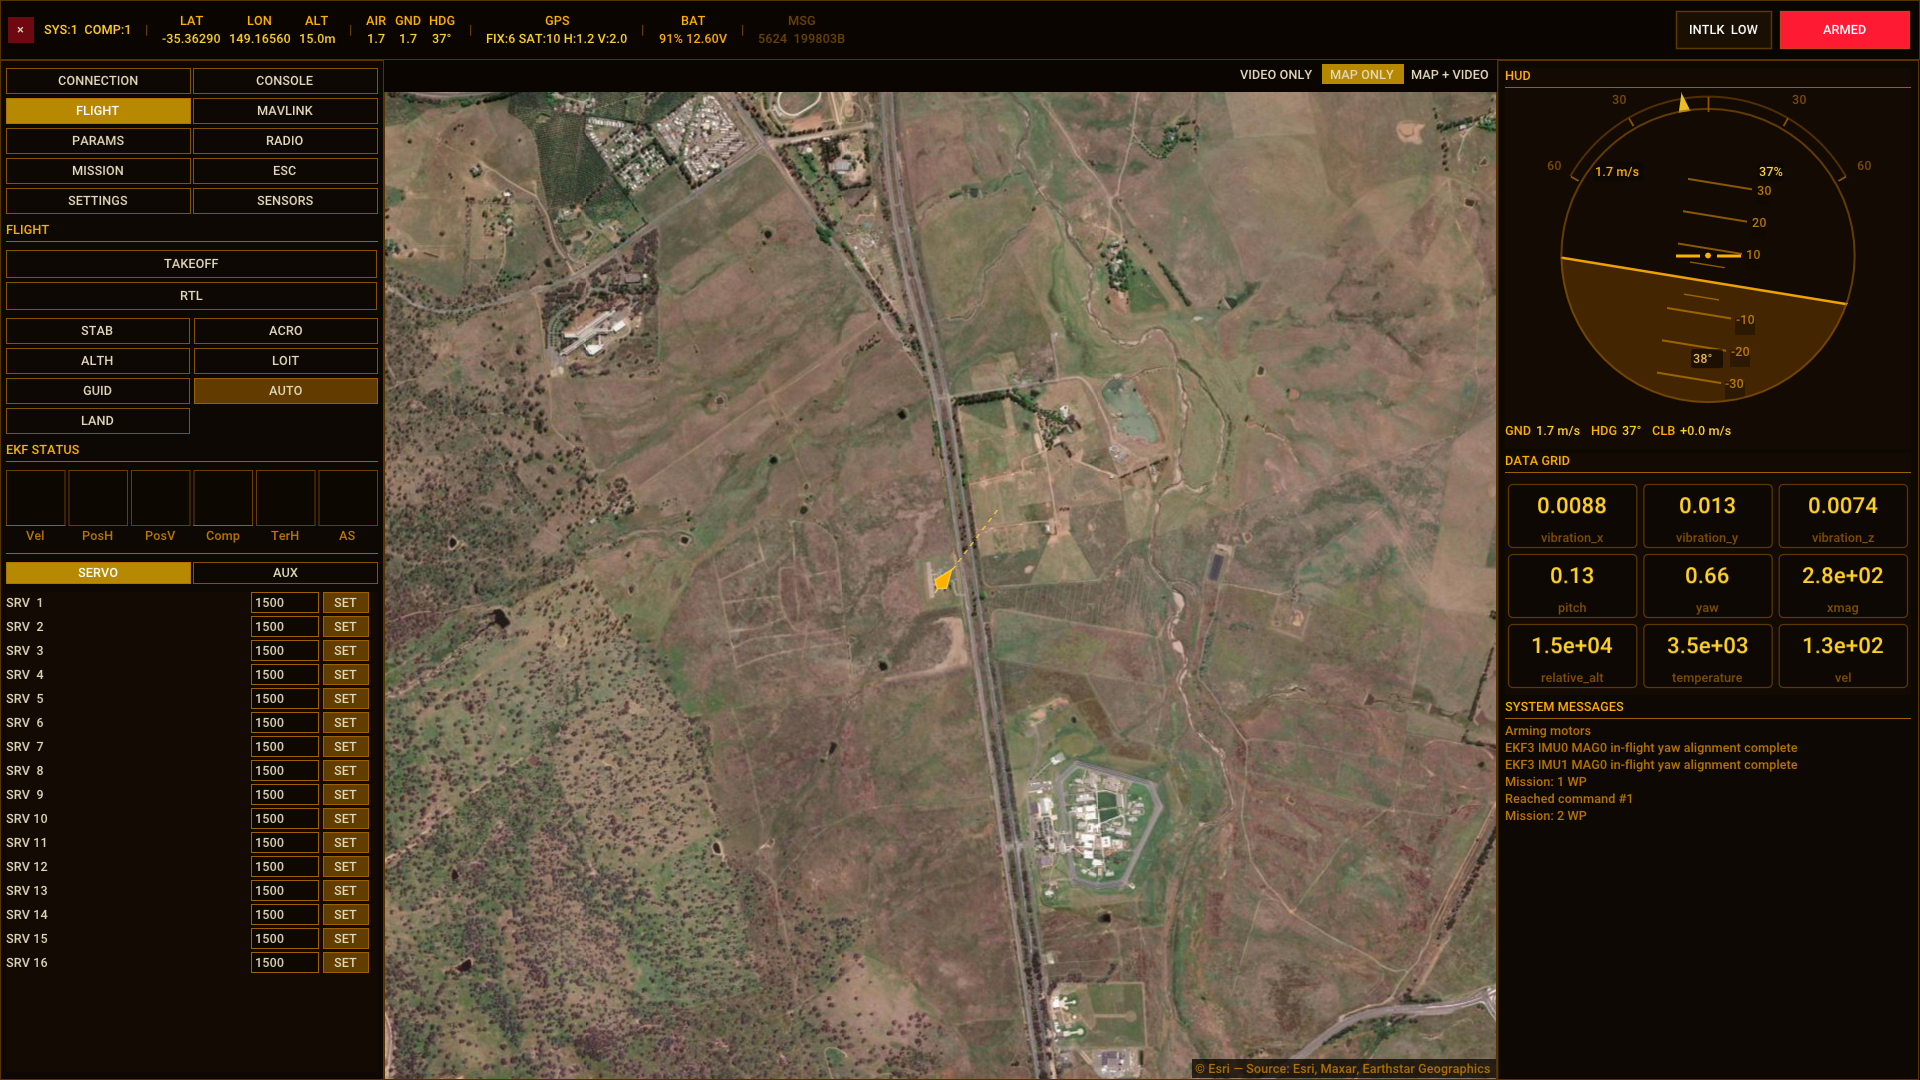
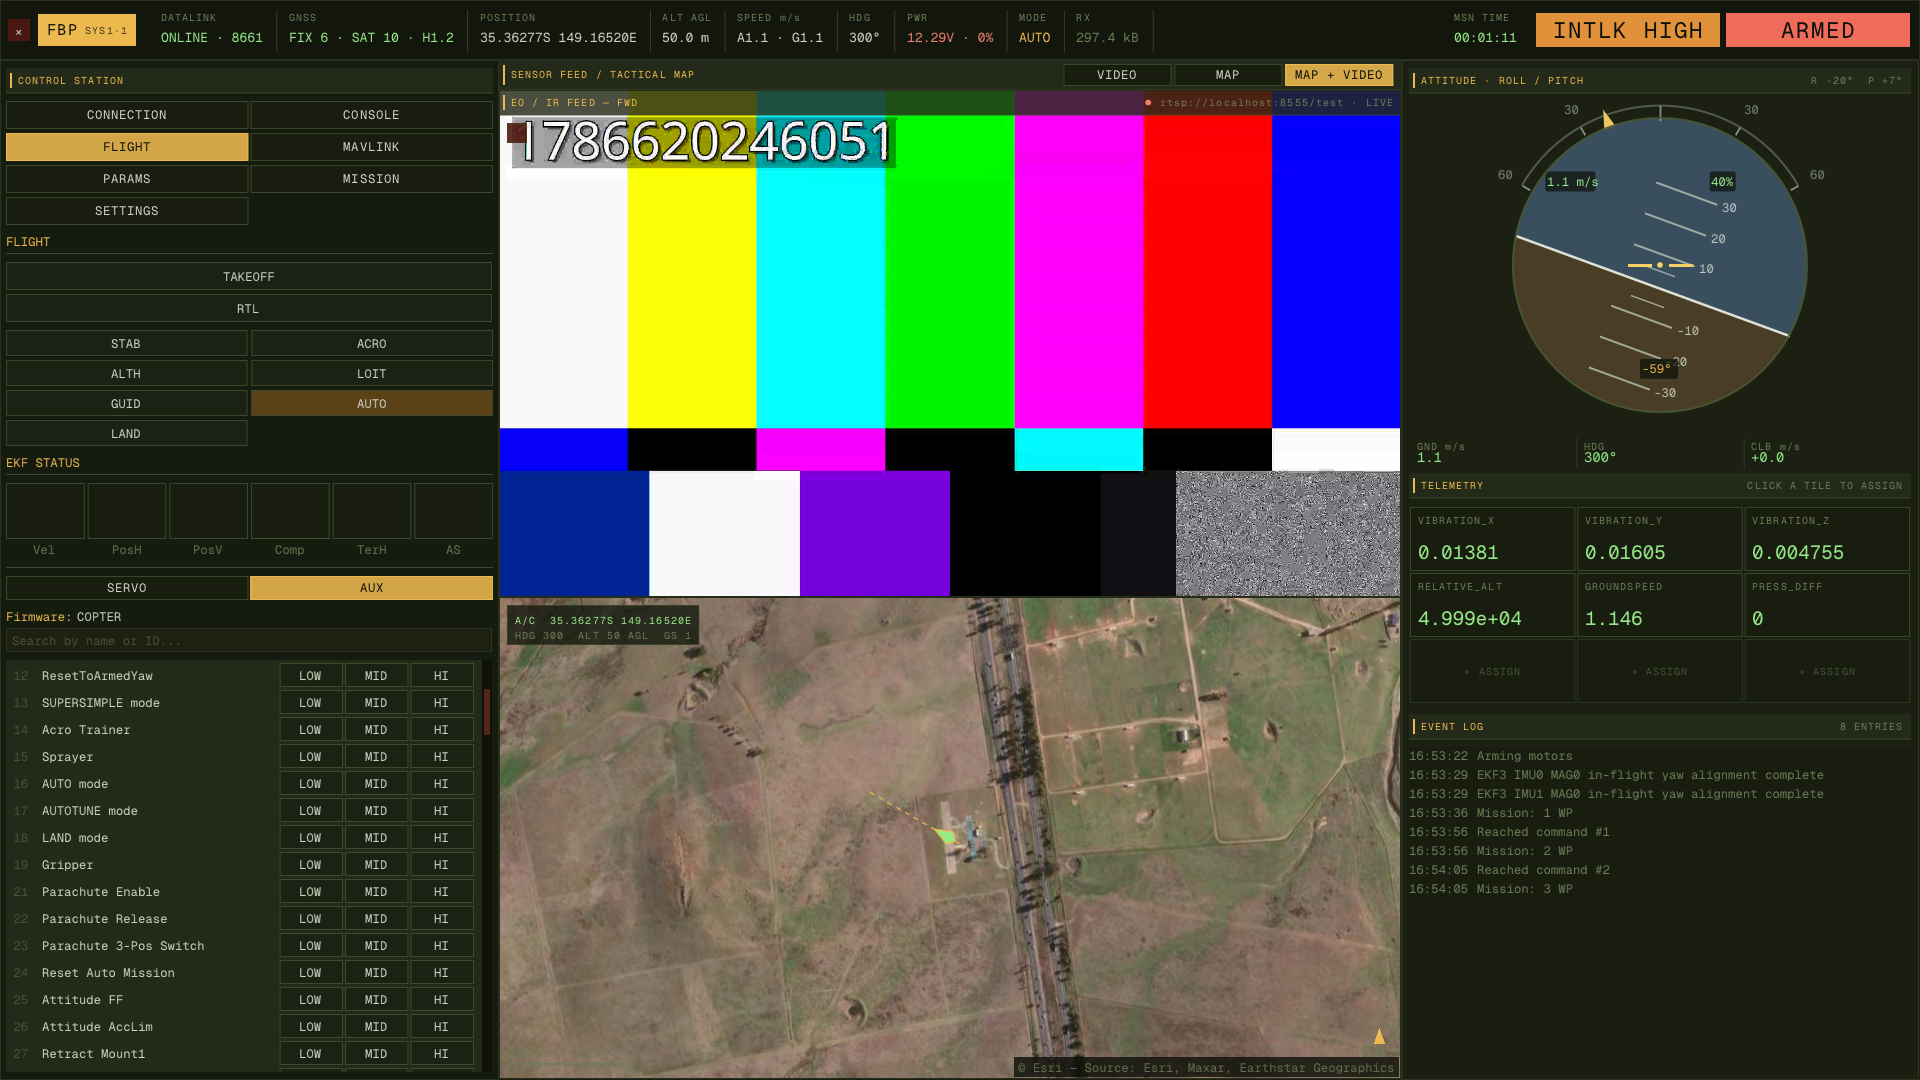
update README

diff --git a/README.md b/README.md
@@ -10,7 +10,7 @@ This GCS is designed for UAV professionals and enthusiasts already familiar with
 
 > Only tested with Ardupilot for now. PX4 support pending.
 
-![screen capture of splash screen](screens/cap2.png)
+![screen capture](screens/cap0.png)
 
 ### Core Telemetry
 - **Real-time vehicle state**: attitude, GPS, altitude, speed, battery, EKF health
@@ -48,8 +48,6 @@ This GCS is designed for UAV professionals and enthusiasts already familiar with
 - **Theme support**: Tactical (default), Retro Amber and Matrix built-ins, plus customizable color schemes
 - **Application log**: bottom-bar console with MAVLink events and system messages
 - **Splash screen**: dismissible startup overlay
-
-![screenshot with video player in view](screens/cap1.png)
 
 
 ## Building
